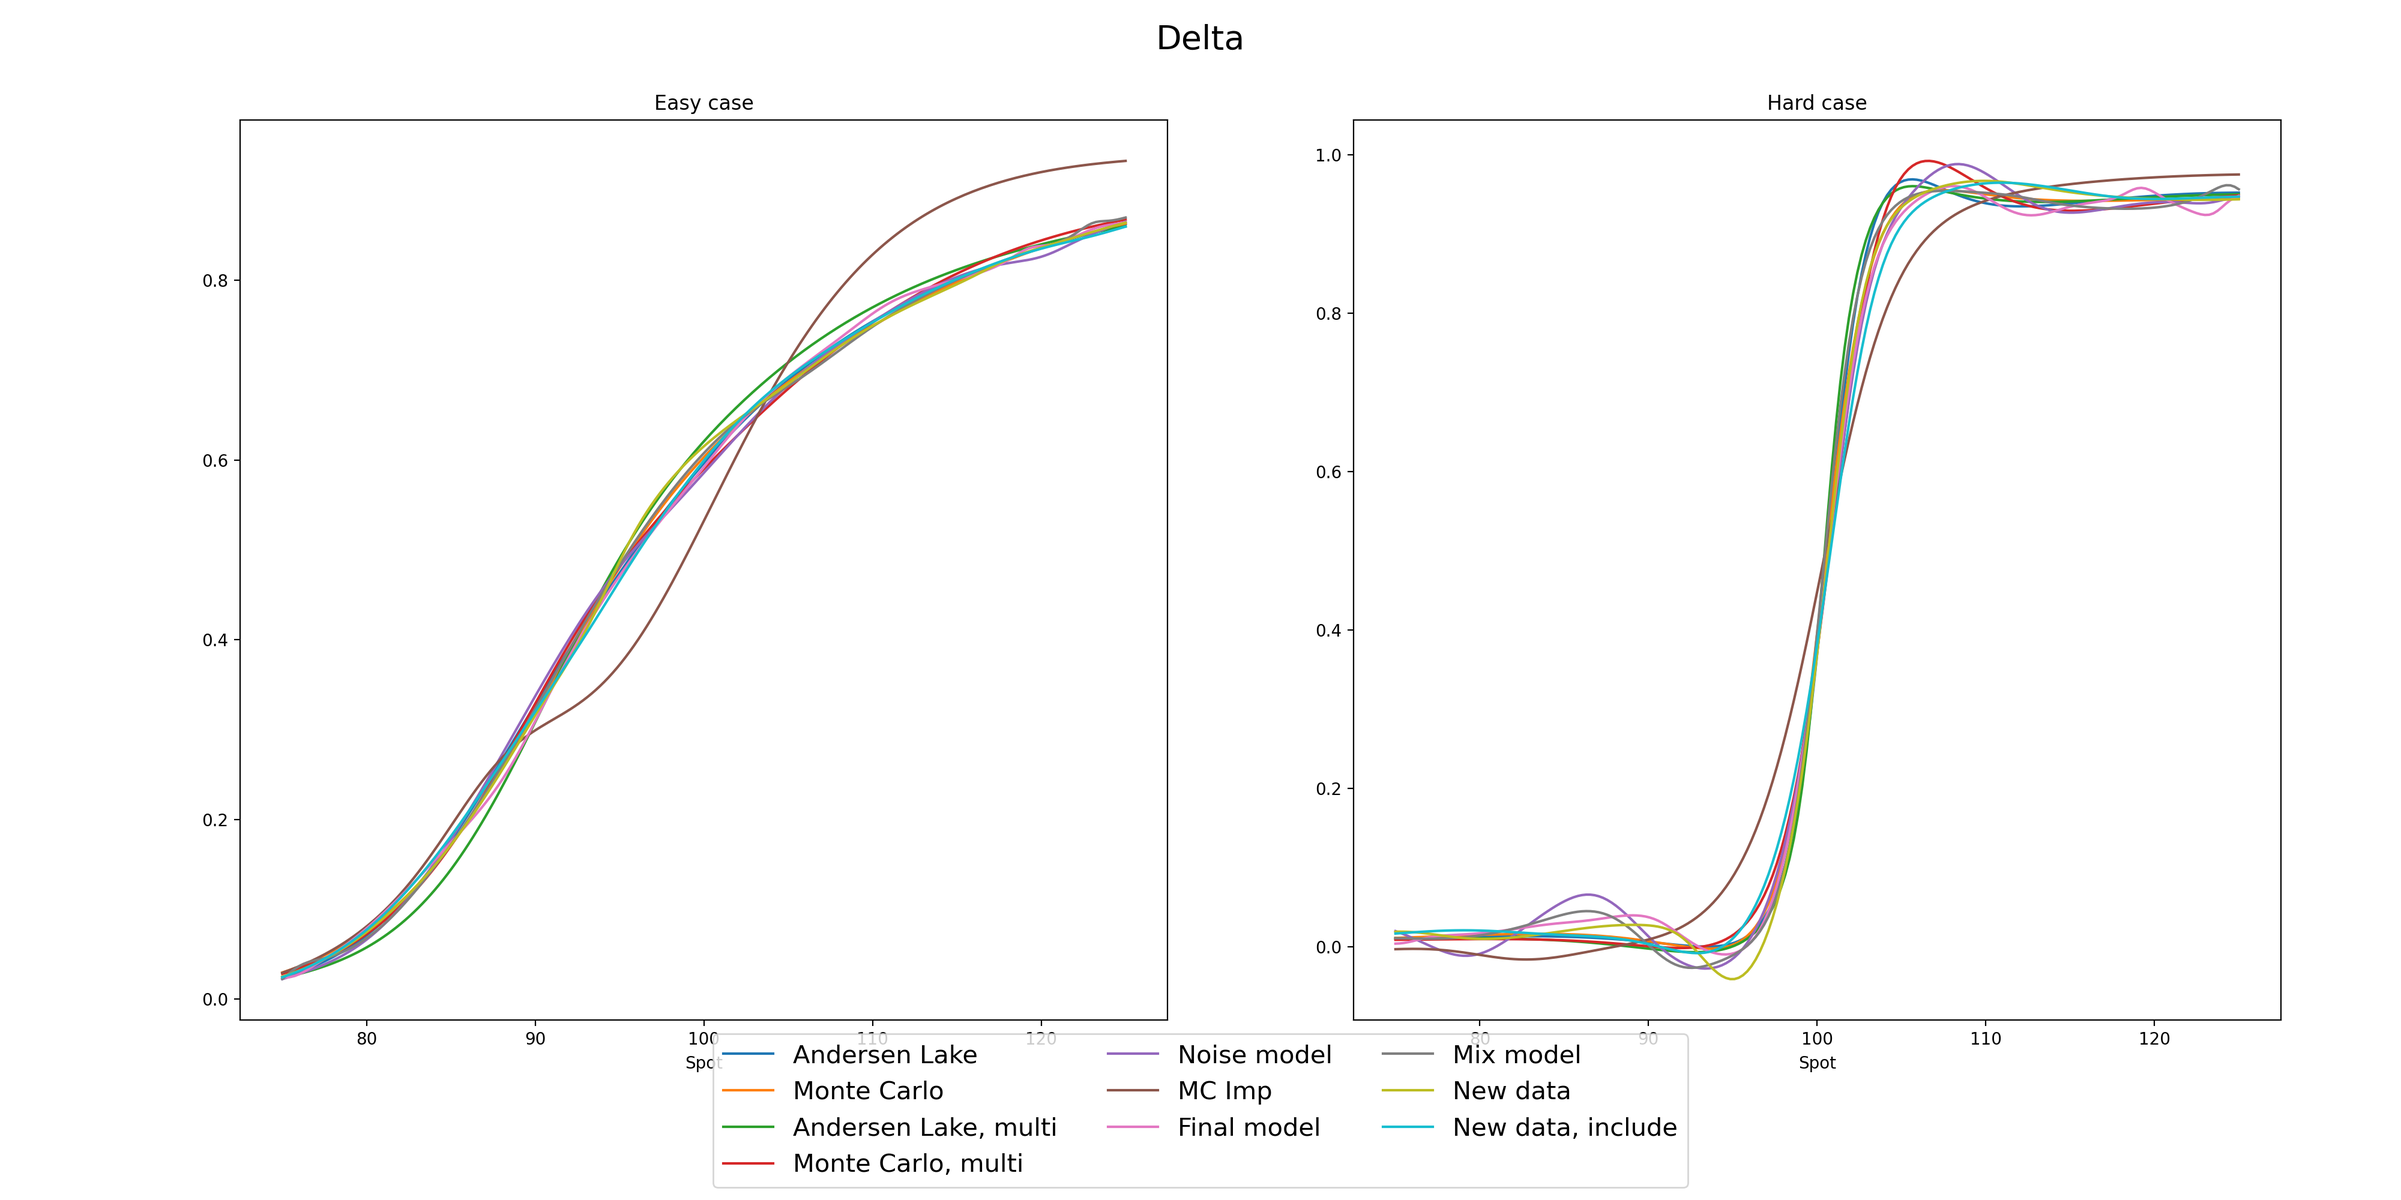
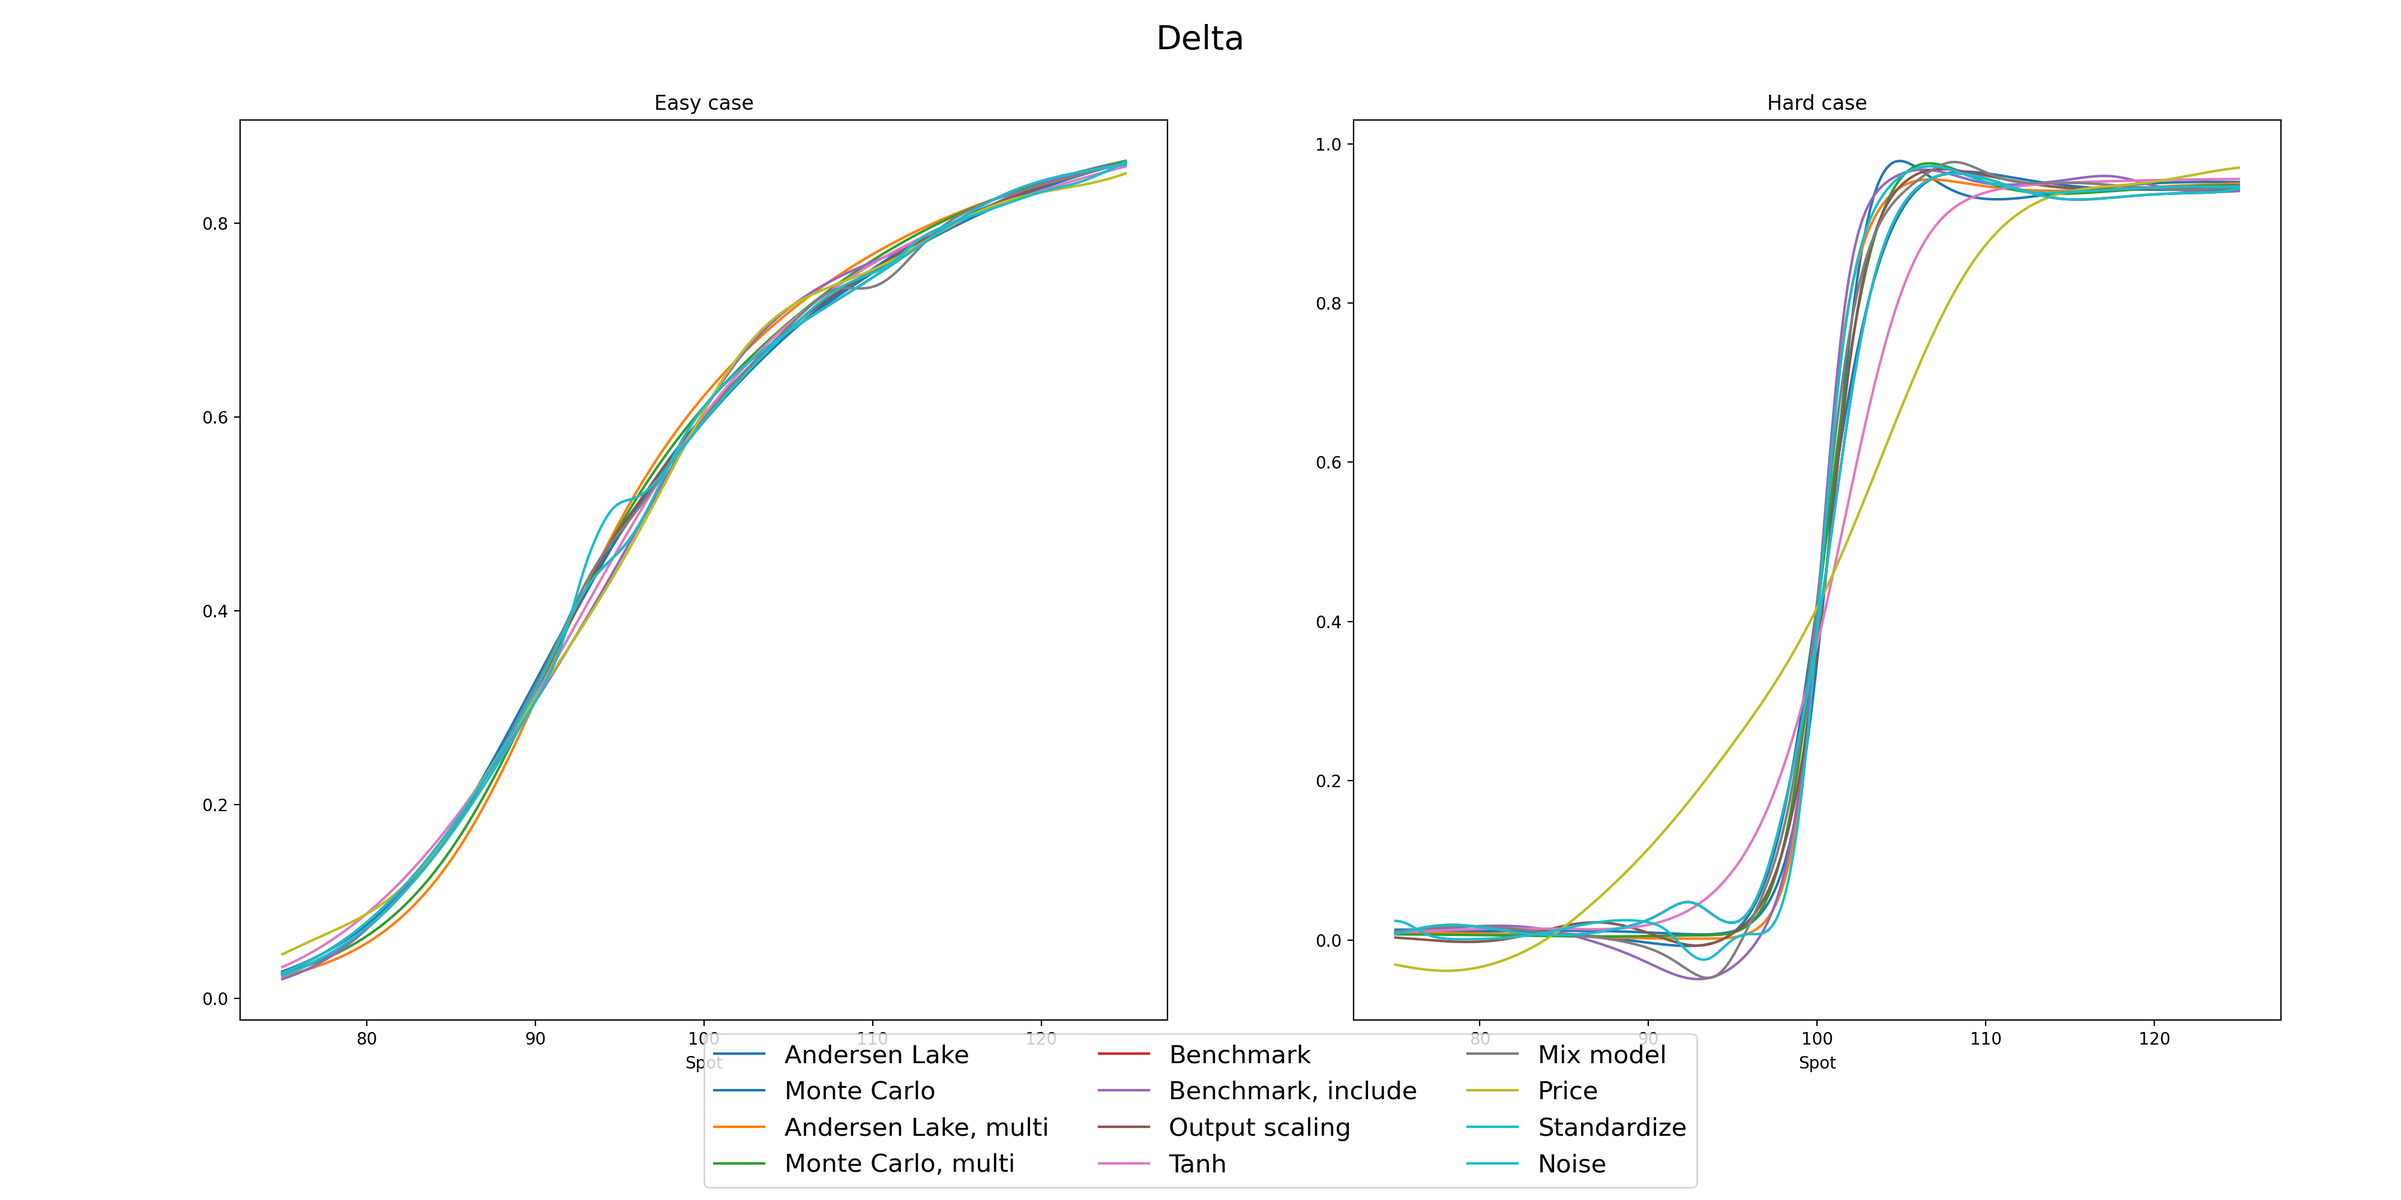
bunch of changes

diff --git a/Thesis/Heston/MC_al.py b/Thesis/Heston/MC_al.py
@@ -163,20 +163,10 @@ def calc_prices(spot : float, epsilon : float):
 
     return al1, mc1, al2, mc2
 
-def model_grads(model_string : str, easy_case : np.ndarray, hard_case : np.ndarray, option : vo.VanillaOption, standardize : bool) -> dict:
+def model_grads(model_string : str, easy_case : np.ndarray, hard_case : np.ndarray, option : vo.VanillaOption) -> dict:
     model = load_model(model_string)
     model_folder = model_string[:model_string.rfind("/") + 1]
-    if os.path.exists(model_folder+"norm_feature.pkl"):
-        norm_feature = joblib.load(model_folder+"norm_feature.pkl")
-    else:
-        if (model_string.find("mc") != -1):
-            norm_feature = joblib.load("Models4/Heston_input_scale.pkl")
-            if (model_string.find("price") != -1):
-                norm_labels = joblib.load(model_string[:model_string.rfind("/")+1]+"price_scale.pkl")
-        elif standardize:
-            norm_feature = joblib.load("Models4/norms/standard_features.pkl")
-        else:
-            norm_feature = joblib.load("Models4/norms/norm_feature.pkl")
+    norm_feature = joblib.load(model_folder+"norm_feature.pkl")
 
     if os.path.exists(model_folder+"/norm_labels.pkl"):
         norm_labels = joblib.load(model_folder+"norm_labels.pkl")
@@ -185,13 +175,17 @@ def model_grads(model_string : str, easy_case : np.ndarray, hard_case : np.ndarr
         normal_out = False
 
     if isinstance(norm_feature, MinMaxScaler):
-        grads_scale = 1 / (norm_feature.data_max_[0] - norm_feature.data_min_[0])
-        grads2_scale = 1 / ((norm_feature.data_max_[0] - norm_feature.data_min_[0]) ** 2)
+        if normal_out:
+            grads_scale = np.sqrt(norm_labels.var_[12]) / (norm_feature.data_max_[0] - norm_feature.data_min_[0])
+            grads2_scale = np.sqrt(norm_labels.var_[12]) / ((norm_feature.data_max_[0] - norm_feature.data_min_[0]) ** 2)
+        else:
+            grads_scale = 1 / (norm_feature.data_max_[0] - norm_feature.data_min_[0])
+            grads2_scale = 1 / ((norm_feature.data_max_[0] - norm_feature.data_min_[0]) ** 2)
     else:
-        try:
+        if normal_out:
             grads_scale = np.sqrt(norm_labels.var_[12]) / np.sqrt(norm_feature.var_[0])
             grads2_scale = np.sqrt(norm_labels.var_[12]) / (np.sqrt(norm_feature.var_[0]) ** 2)
-        except:
+        else:
             grads_scale = 1 / np.sqrt(norm_feature.var_[0])
             grads2_scale = 1 / (np.sqrt(norm_feature.var_[0]) ** 2)
 
@@ -425,6 +419,81 @@ if __name__ == "__main__":
     mc_multi_predict1, mc_multi_grads1, mc_multi_grads1_2 = generate_predictions(input_multi_easy, mc_multi_model1, norm_features_multiple)
     al_multi_predict2, al_multi_grads2, al_multi_grads2_2 = generate_predictions(input_multi_hard, al_multi_model2, norm_features_multiple)
     mc_multi_predict2, mc_multi_grads2, mc_multi_grads2_2 = generate_predictions(input_multi_hard, mc_multi_model2, norm_features_multiple)
+
+    ### Plotting grads for best models
+    benchmark = "Models5/benchmark/benchmark_5_1000.h5"
+    benchmark_dict = model_grads(benchmark, input_good_easy, input_good_hard, some_option)
+
+    benchmark_include = "Models5/benchmark_include/benchmark_include_5_1000.h5"
+    benchmark_include_dict = model_grads(benchmark_include, input_good_easy, input_good_hard, some_option)
+
+    output_scaling = "Models5/output_scaling/output_scaling_4_500.h5"
+    output_scaling_dict = model_grads(output_scaling, input_good_easy, input_good_hard, some_option)
+
+    tanh = "Models5/tanh/tanh_4_50.h5"
+    tanh_dict = model_grads(tanh, input_good_easy, input_good_hard, some_option)
+
+    mix = "Models5/mix/mix_5_1000.h5"
+    mix_dict = model_grads(mix, input_good_easy, input_good_hard, some_option)
+
+    price = "Models5/price/price_2_1000.h5"
+    price_dict = model_grads(price, input_good_easy, input_good_hard, some_option)
+
+    standardize = "Models5/standardize/standardize_5_1000.h5"
+    standardize_dict = model_grads(standardize, input_good_easy, input_good_hard, some_option)
+
+    noise = "Models5/benchmark/benchmark_5_1000.h5"
+    noise_dict = model_grads(noise, input_good_easy, input_good_hard, some_option)
+
+    prediction_data = {
+        "Andersen Lake" : [al_predict1, al_predict2],
+        "Monte Carlo" : [mc_predict1, mc_predict2],
+        "Andersen Lake, multi" : [al_multi_predict1, al_multi_predict2],
+        "Monte Carlo, multi" : [mc_multi_predict1, mc_multi_predict2],
+        "Benchmark" : [benchmark_dict["pred"][0], benchmark_dict["pred"][1]],
+        "Benchmark, include" : [benchmark_include_dict["pred"][0], benchmark_include_dict["pred"][1]],
+        "Output scaling" : [output_scaling_dict["pred"][0], output_scaling_dict["pred"][1]],
+        "Tanh" : [tanh_dict["pred"][0], tanh_dict["pred"][1]],
+        "Mix model" : [mix_dict["pred"][0], mix_dict["pred"][1]],
+        "Price" : [price_dict["pred"][0], price_dict["pred"][1]],
+        "Standardize" : [standardize_dict["pred"][0], standardize_dict["pred"][1]],
+        "Noise" : [noise_dict["pred"][0], noise_dict["pred"][1]]
+    }
+
+    delta_data = {
+        "Andersen Lake" : [al_grads1, al_grads2],
+        "Monte Carlo" : [mc_grads1, mc_grads2],
+        "Andersen Lake, multi" : [al_multi_grads1[:,0], al_multi_grads2[:,0]],
+        "Monte Carlo, multi" : [mc_multi_grads1[:,0], mc_multi_grads2[:,0]],
+        "Benchmark" : [benchmark_dict["delta"][0], benchmark_dict["delta"][1]],
+        "Benchmark, include" : [benchmark_include_dict["delta"][0], benchmark_include_dict["delta"][1]],
+        "Output scaling" : [output_scaling_dict["delta"][0], output_scaling_dict["delta"][1]],
+        "Tanh" : [tanh_dict["delta"][0], tanh_dict["delta"][1]],
+        "Mix model" : [mix_dict["delta"][0], mix_dict["delta"][1]],
+        "Price" : [price_dict["delta"][0], price_dict["delta"][1]],
+        "Standardize" : [standardize_dict["delta"][0], standardize_dict["delta"][1]],
+        "Noise" : [noise_dict["delta"][0], noise_dict["delta"][1]]
+    }
+
+    gamma_data = {
+        "Andersen Lake" : [al_grads1_2, al_grads2_2],
+        "Monte Carlo" : [mc_grads1_2, mc_grads2_2],
+        "Andersen Lake, multi" : [al_multi_grads1_2[:,0], al_multi_grads2_2[:,0]],
+        "Monte Carlo, multi" : [mc_multi_grads1_2[:,0], mc_multi_grads2_2[:,0]],
+        "Benchmark" : [benchmark_dict["gamma"][0], benchmark_dict["gamma"][1]],
+        "Benchmark, include" : [benchmark_include_dict["gamma"][0], benchmark_include_dict["gamma"][1]],
+        "Output scaling" : [output_scaling_dict["gamma"][0], output_scaling_dict["gamma"][1]],
+        "Tanh" : [tanh_dict["gamma"][0], tanh_dict["gamma"][1]],
+        "Mix model" : [mix_dict["gamma"][0], mix_dict["gamma"][1]],
+        "Price" : [price_dict["gamma"][0], price_dict["gamma"][1]],
+        "Standardize" : [standardize_dict["gamma"][0], standardize_dict["gamma"][1]],
+        "Noise" : [noise_dict["gamma"][0], noise_dict["gamma"][1]]
+    }
+
+    plot_func(spot_plot, prediction_data, "Predictions")
+    plot_func(spot_plot, delta_data, "Delta")
+    plot_func(spot_plot, gamma_data, "Gamma")
+
 
     ### Noise
     noise_model = "Models4/noise/noise_5_500.h5"

diff --git a/Thesis/Heston/ModelTesting.py b/Thesis/Heston/ModelTesting.py
@@ -309,43 +309,27 @@ def model_testing2(model_list : list, plot_title : str, easy_case : np.ndarray, 
     fig.subplots_adjust(top=0.95, left=0.1, right=0.95, bottom=0.2)
     fig.legend(handles, labels, loc="lower center", ncol = 5, fontsize=15)
     fig.suptitle(plot_title, fontsize=20)
-    plt.savefig("Plots2/"+plot_title.replace(" ", "_")+".png")
+    plt.savefig("Final_plots/"+plot_title.replace(" ", "_")+".png")
     plt.close()
     return mse_list
 
-def model_test_set(model_list : list, X_test : np.ndarray, Y_test : np.ndarray) -> list:
+def model_test_set(model_list : list, X_test : np.ndarray, Y_test : np.ndarray, Y_test_price : np.ndarray) -> list:
     mse_list = []
     for model_string in model_list:
+        if (model_string.find("price") != -1):
+            y_test_loop = Y_test_price
         x_test_loop = X_test
         y_test_loop = Y_test
         model = load_model(model_string)
         model_folder = model_string[:model_string.rfind("/") + 1]
-        norm_folder = "Models4/norms/"
-        ### Check if model includes scaling
-        if ((model_string.find("output_scaling") != -1) or ((model_string.find("final") != -1 and model_string.find("final2") == -1 ))):
-            normal_out = True
-            norm_labels = joblib.load(norm_folder+"norm_labels.pkl")
+        norm_feature = joblib.load(model_folder+"norm_feature.pkl")
+        if os.path.exists(model_folder+"/norm_labels.pkl"):
+            norm_labels = joblib.load(model_folder+"norm_labels.pkl")
             y_test_loop = norm_labels.transform(y_test_loop)
-        else:
-            normal_out = False
-
-        if (model_string.find("price") != -1):
-            norm_feature = joblib.load(norm_folder+"norm_feature_price.pkl")
-        elif (model_string.find("grid_vs_sobol") != -1):
-            if (model_string.find("sobol") != -1):
-                norm_feature = joblib.load(norm_folder+"norm_feature_wide.pkl")
-            else:
-                norm_feature = joblib.load(norm_folder+"norm_feature_grid.pkl")
-        elif (model_string.find("single") != -1):
-            norm_feature = joblib.load(norm_folder+"norm_feature_single.pkl")
-        elif (model_string.find("standard") != -1 or ((model_string.find("final") != -1 and model_string.find("final3") == -1 )) or (model_string.find("noise") != -1)):
-            norm_feature = joblib.load(norm_folder+"standard_features.pkl")
-        else:
-            norm_feature = joblib.load(norm_folder+"norm_feature.pkl")
 
         x_test_loop = norm_feature.transform(x_test_loop)
 
-        name = model_string[model_string.find("/")+1:]
+        name = model_string[model_string.rfind("/")+1:]
         score = model.evaluate(x_test_loop, y_test_loop, verbose=0)
         mse_list.append((name, score))
     
@@ -391,6 +375,56 @@ def generate_plots(model_list : list, plot_title: str):
     generate_bar_error(mse, plot_title)
 
 if __name__ == "__main__":
+    ### Models 5
+    benchmark = glob.glob("Models5/benchmark/*.h5")
+    benchmark_mse = model_testing2(benchmark, "benchmark", easy_case(), hard_case(), option_input())
+    benchmark_mse.sort(key = lambda x: -x[1])
+
+    benchmark_include = glob.glob("Models5/benchmark_include/*.h5")
+    benchmark_include_mse = model_testing2(benchmark_include, "benchmark_include", easy_case(), hard_case(), option_input())
+    benchmark_include_mse.sort(key = lambda x: -x[1])
+
+    output_scaling = glob.glob("Models5/output_scaling/*.h5")
+    output_scaling_mse = model_testing2(output_scaling, "output_scaling", easy_case(), hard_case(), option_input())
+    output_scaling_mse.sort(key = lambda x: -x[1])
+
+    tanh = glob.glob("Models5/tanh/*.h5")
+    tanh_mse = model_testing2(tanh, "tanh", easy_case(), hard_case(), option_input())
+    tanh_mse.sort(key = lambda x: -x[1])
+
+    mix = glob.glob("Models5/mix/*.h5")
+    mix_mse = model_testing2(mix, "mix", easy_case(), hard_case(), option_input())
+    mix_mse.sort(key = lambda x: -x[1])
+
+    price = glob.glob("Models5/price/*.h5")
+    price_mse = model_testing2(price, "price", easy_case(), hard_case(), option_input())
+    price_mse.sort(key = lambda x: -x[1])
+
+    standardize = glob.glob("Models5/standardize/*.h5")
+    standardize_mse = model_testing2(standardize, "standardize", easy_case(), hard_case(), option_input())
+    standardize_mse.sort(key = lambda x: -x[1])
+
+    noise = glob.glob("Models5/noise/*.h5")
+    noise_mse = model_testing2(noise, "noise", easy_case(), hard_case(), option_input())
+    noise_mse.sort(key = lambda x: -x[1])
+
+    best_mse = [benchmark_mse[-1]] + [benchmark_include_mse[-1]] + [output_scaling_mse[-1]] + [tanh_mse[-1]] + \
+        [mix_mse[-1]] + [price_mse[-1]] + [standardize_mse[-1]] + [noise_mse[-1]]
+
+    combined_list = glob.glob("Models5/*/*.h5")
+
+    test_index = np.loadtxt("Data/MC/test_index.csv", delimiter=",").astype(int)
+    model_input_1 = np.loadtxt("Data/hestonSobolGridInput2_compare2_200000.csv", delimiter = ",")
+    imp_vol_1 = np.loadtxt("Data/sobol_imp_compare200000.csv", delimiter=",")
+    price_1 = np.loadtxt("Data/hestonSobolGridPrice2_compare2_200000.csv", delimiter=",")
+
+    X_test = model_input_1[test_index, :]
+    Y_test = imp_vol_1[test_index, :]
+    Y_test_price = price_1[test_index, :]
+
+    combined_mse = model_test_set(combined_list, X_test, Y_test, Y_test_price)
+
+    """
     ### New models
     base = glob.glob("Models4/benchmark/*.h5")
     #generate_plots(base, "base")
@@ -491,6 +525,7 @@ if __name__ == "__main__":
 
     mc_mse_price = monte_carlo_testing(price_monte_carlo, x_test_mc, y_test_price_mc)
     mc_mse_price.sort(key = lambda x: x[1])
+    """
 
 
 """

diff --git a/Thesis/Heston/ModelGenerator.py b/Thesis/Heston/ModelGenerator.py
@@ -74,6 +74,10 @@ if __name__ == '__main__':
         itertools.repeat("output_scaling"), layer_neuron_combs[:, 0], layer_neuron_combs[:, 1], \
         itertools.repeat("normal"), itertools.repeat(True), itertools.repeat(False), itertools.repeat(False)))
 
+    output_scaling_mix_list = list(zip(itertools.repeat(data_set_1), itertools.repeat("output_scaling_mix"), \
+        itertools.repeat("output_scaling_mix"), layer_neuron_combs[:, 0], layer_neuron_combs[:, 1], \
+        itertools.repeat("mix"), itertools.repeat(True), itertools.repeat(False), itertools.repeat(False)))
+
     tanh_list = list(zip(itertools.repeat(data_set_1), itertools.repeat("tanh"), \
         itertools.repeat("tanh"), layer_neuron_combs[:, 0], layer_neuron_combs[:, 1], \
         itertools.repeat("tanh"), itertools.repeat(False), itertools.repeat(False), itertools.repeat(False)))
@@ -94,12 +98,21 @@ if __name__ == '__main__':
         itertools.repeat("standardize"), layer_neuron_combs[:, 0], layer_neuron_combs[:, 1], \
         itertools.repeat("normal"), itertools.repeat(False), itertools.repeat(True), itertools.repeat(False)))
 
+    standardize_mix_list = list(zip(itertools.repeat(data_set_1), itertools.repeat("standardize_mix"), \
+        itertools.repeat("standardize_mix"), layer_neuron_combs[:, 0], layer_neuron_combs[:, 1], \
+        itertools.repeat("mix"), itertools.repeat(False), itertools.repeat(True), itertools.repeat(False)))
+
     noise_list = list(zip(itertools.repeat(data_set_1), itertools.repeat("noise"), \
         itertools.repeat("noise"), layer_neuron_combs[:, 0], layer_neuron_combs[:, 1], \
         itertools.repeat("normal"), itertools.repeat(False), itertools.repeat(True), itertools.repeat(False)))
 
+    combined_best_list = list(zip(itertools.repeat(data_set_1), itertools.repeat("combined"), \
+        itertools.repeat("combined"), layer_neuron_combs[:, 0], layer_neuron_combs[:, 1], \
+        itertools.repeat("mix"), itertools.repeat(True), itertools.repeat(True), itertools.repeat(False)))
+
     compute10_list = benchmark_list + benchmark_include_list + output_scaling_list + tanh_list
     compute11_list = mix_list + price_list + standardize_list + noise_list
+    next_list = price_output_scaling_list + combined_best_list + output_scaling_mix_list + standardize_mix_list
 
     if cpu_count() == 4:
         cpu_cores = 4
@@ -107,5 +120,5 @@ if __name__ == '__main__':
         cpu_cores = int(min(cpu_count()/4, 16))
 
     pool = Pool(cpu_cores)
-    res = pool.starmap(mg.NN_mc_model_1, compute10_list, chunksize=1)
+    res = pool.starmap(mg.NN_mc_model_1, next_list, chunksize=1)
     pool.close()

diff --git a/Thesis/tests/test.py b/Thesis/tests/test.py
@@ -1,16 +1,39 @@
 import numpy as np
-import time
-import itertools
-import pandas
-from scipy.stats import norm
-from Thesis.Models import black_scholes as bs
-from Thesis.Functions import monte_carlo as mc
-from Thesis.Functions import mc_numba as mcn
+import tikzplotlib
+import matplotlib.pyplot as plt
 
-strike_range = np.arange(80, 120, 5)
-mat_range = np.arange(0.05, 2.05, 0.05)
-sigma_range = np.arange(0.05, 0.55, 0.05)
-r_range = np.arange(0, 0.11, 0.01)
-spot_value = 100
+def f(x):
+    return 2 * np.sin(x) + 4 * np.cos(x / 2)
 
-input_data_panda = pandas.DataFrame(list(itertools.product(mat_range, strike_range, sigma_range, r_range)), columns=['Mat', 'Strike', 'sigma', 'r'])
+x = np.linspace(start = 0, stop = 12.5, num = 100)
+
+y = f(x)
+
+x_saddel = 3 * np.pi
+y_saddel = f(x_saddel)
+
+x_min = 5 * np.pi / 3
+y_min = f(x_min)
+
+x_rand = 3
+y_rand = f(x_rand)
+
+x_rand2 = 3.5
+y_rand2 = f(x_rand2)
+
+fig = plt.figure()
+ax = fig.add_subplot(111)
+ax.plot(x, y)
+ax.plot(x_saddel, y_saddel, 'ko') 
+ax.plot(x_min, y_min, 'ko')
+ax.plot(x_rand, y_rand, 'ko')
+ax.plot(x_rand2, y_rand2, 'ko')
+ax.set_ylabel("E(w)", rotation="horizontal", labelpad=15)
+ax.set_xticklabels([])
+ax.set_yticklabels([])
+ax.annotate("ws", (x_saddel, y_saddel), xytext = (0,4), textcoords="offset points")
+ax.annotate("wm", (x_min, y_min), xytext = (0,-10), textcoords="offset points")
+ax.annotate("wr", (x_rand, y_rand), xytext = (0,4), textcoords="offset points")
+ax.annotate("wr", (x_rand2, y_rand2), xytext = (0,4), textcoords="offset points")
+
+tikzplotlib.save("error.tex")
